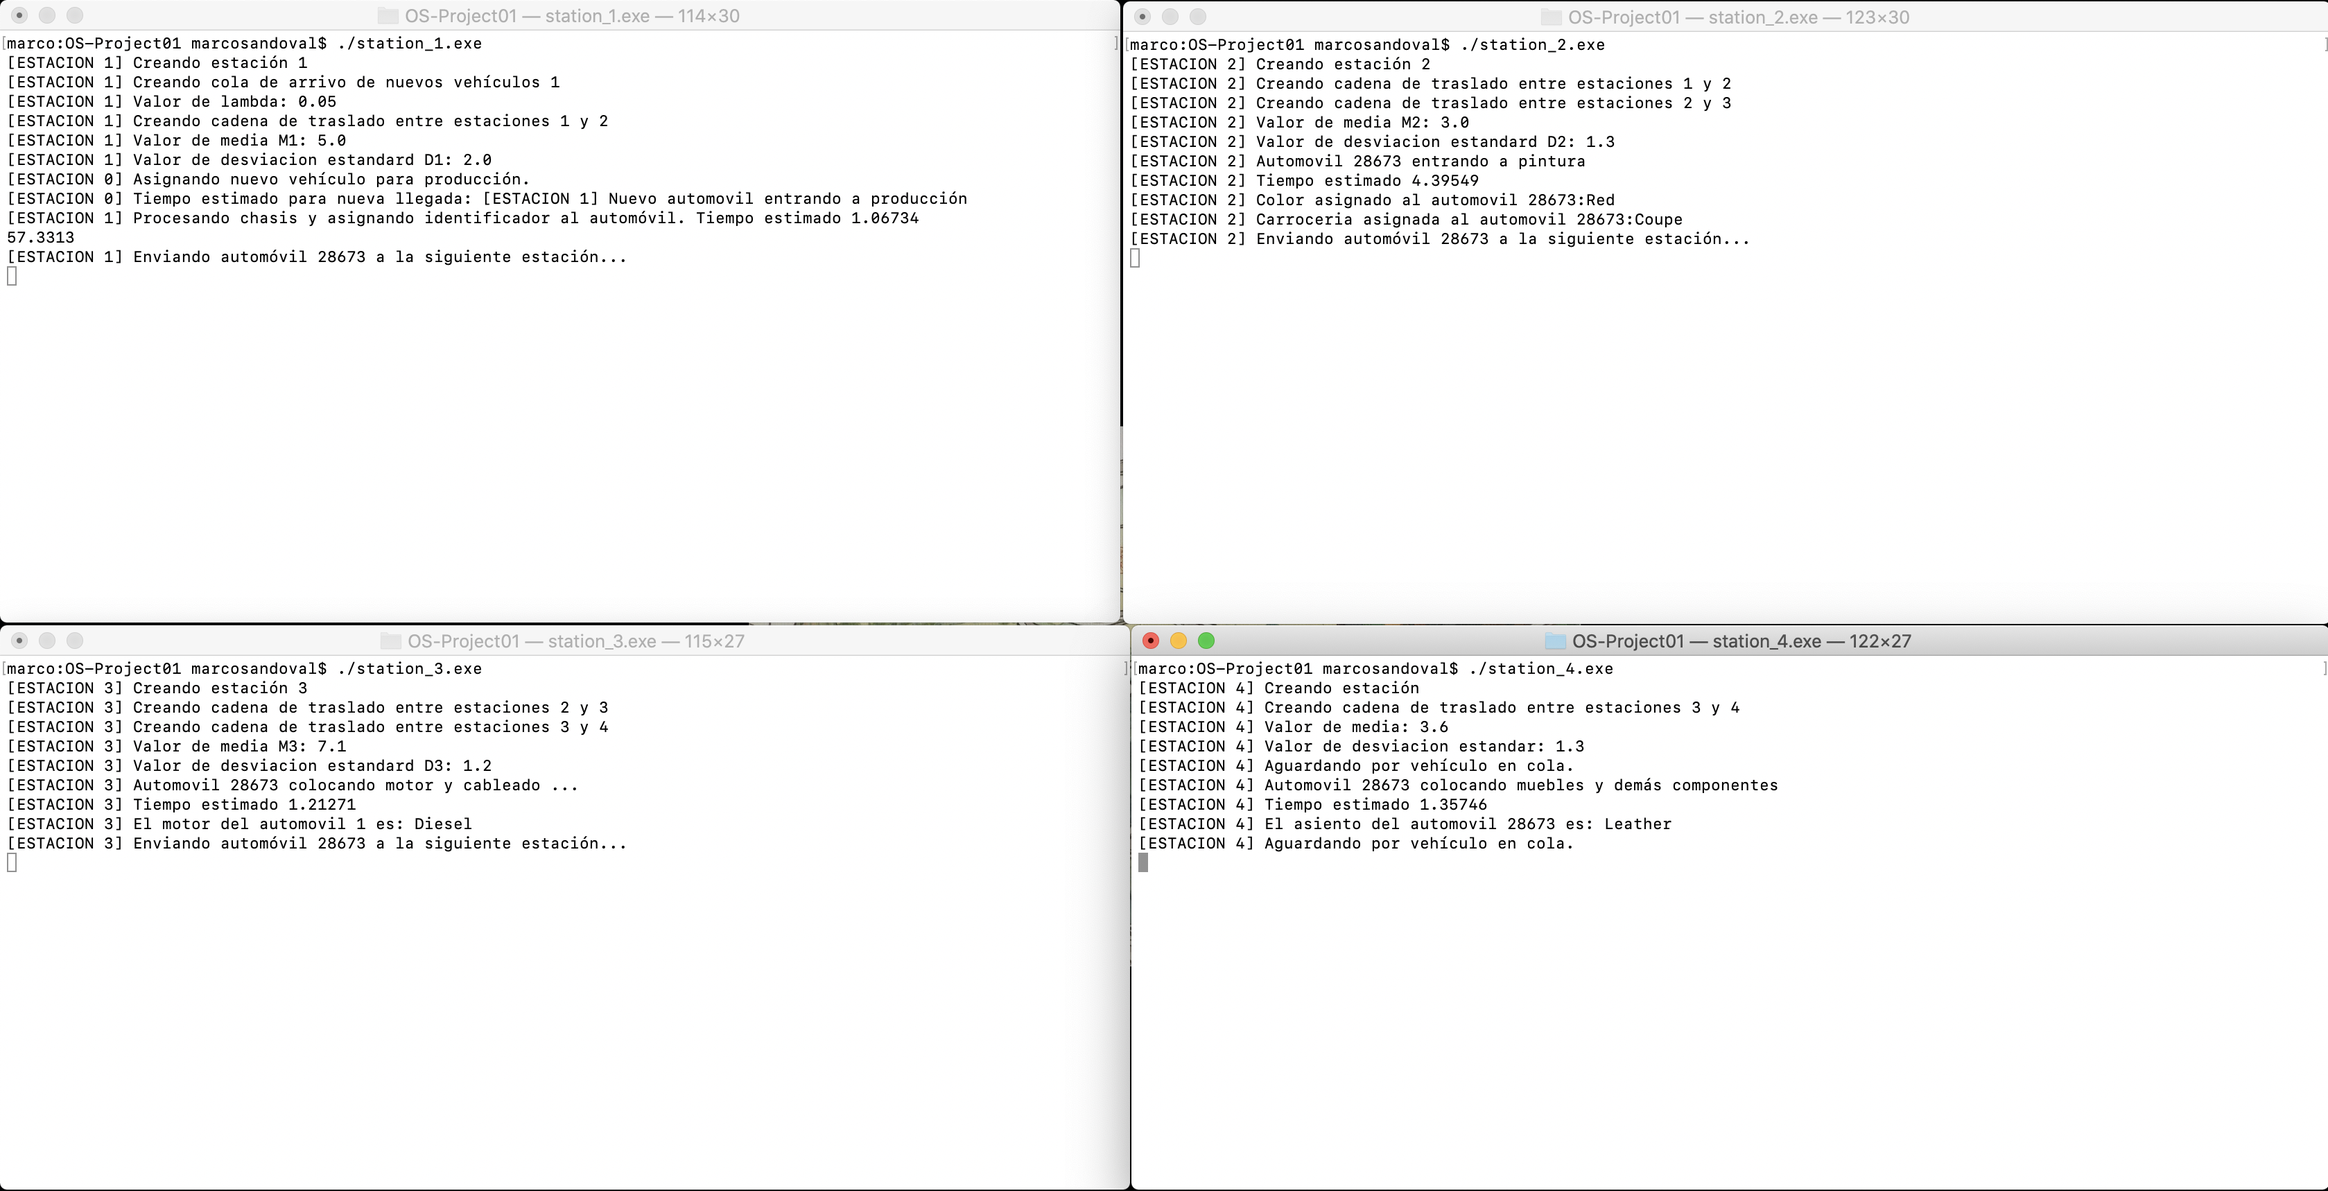
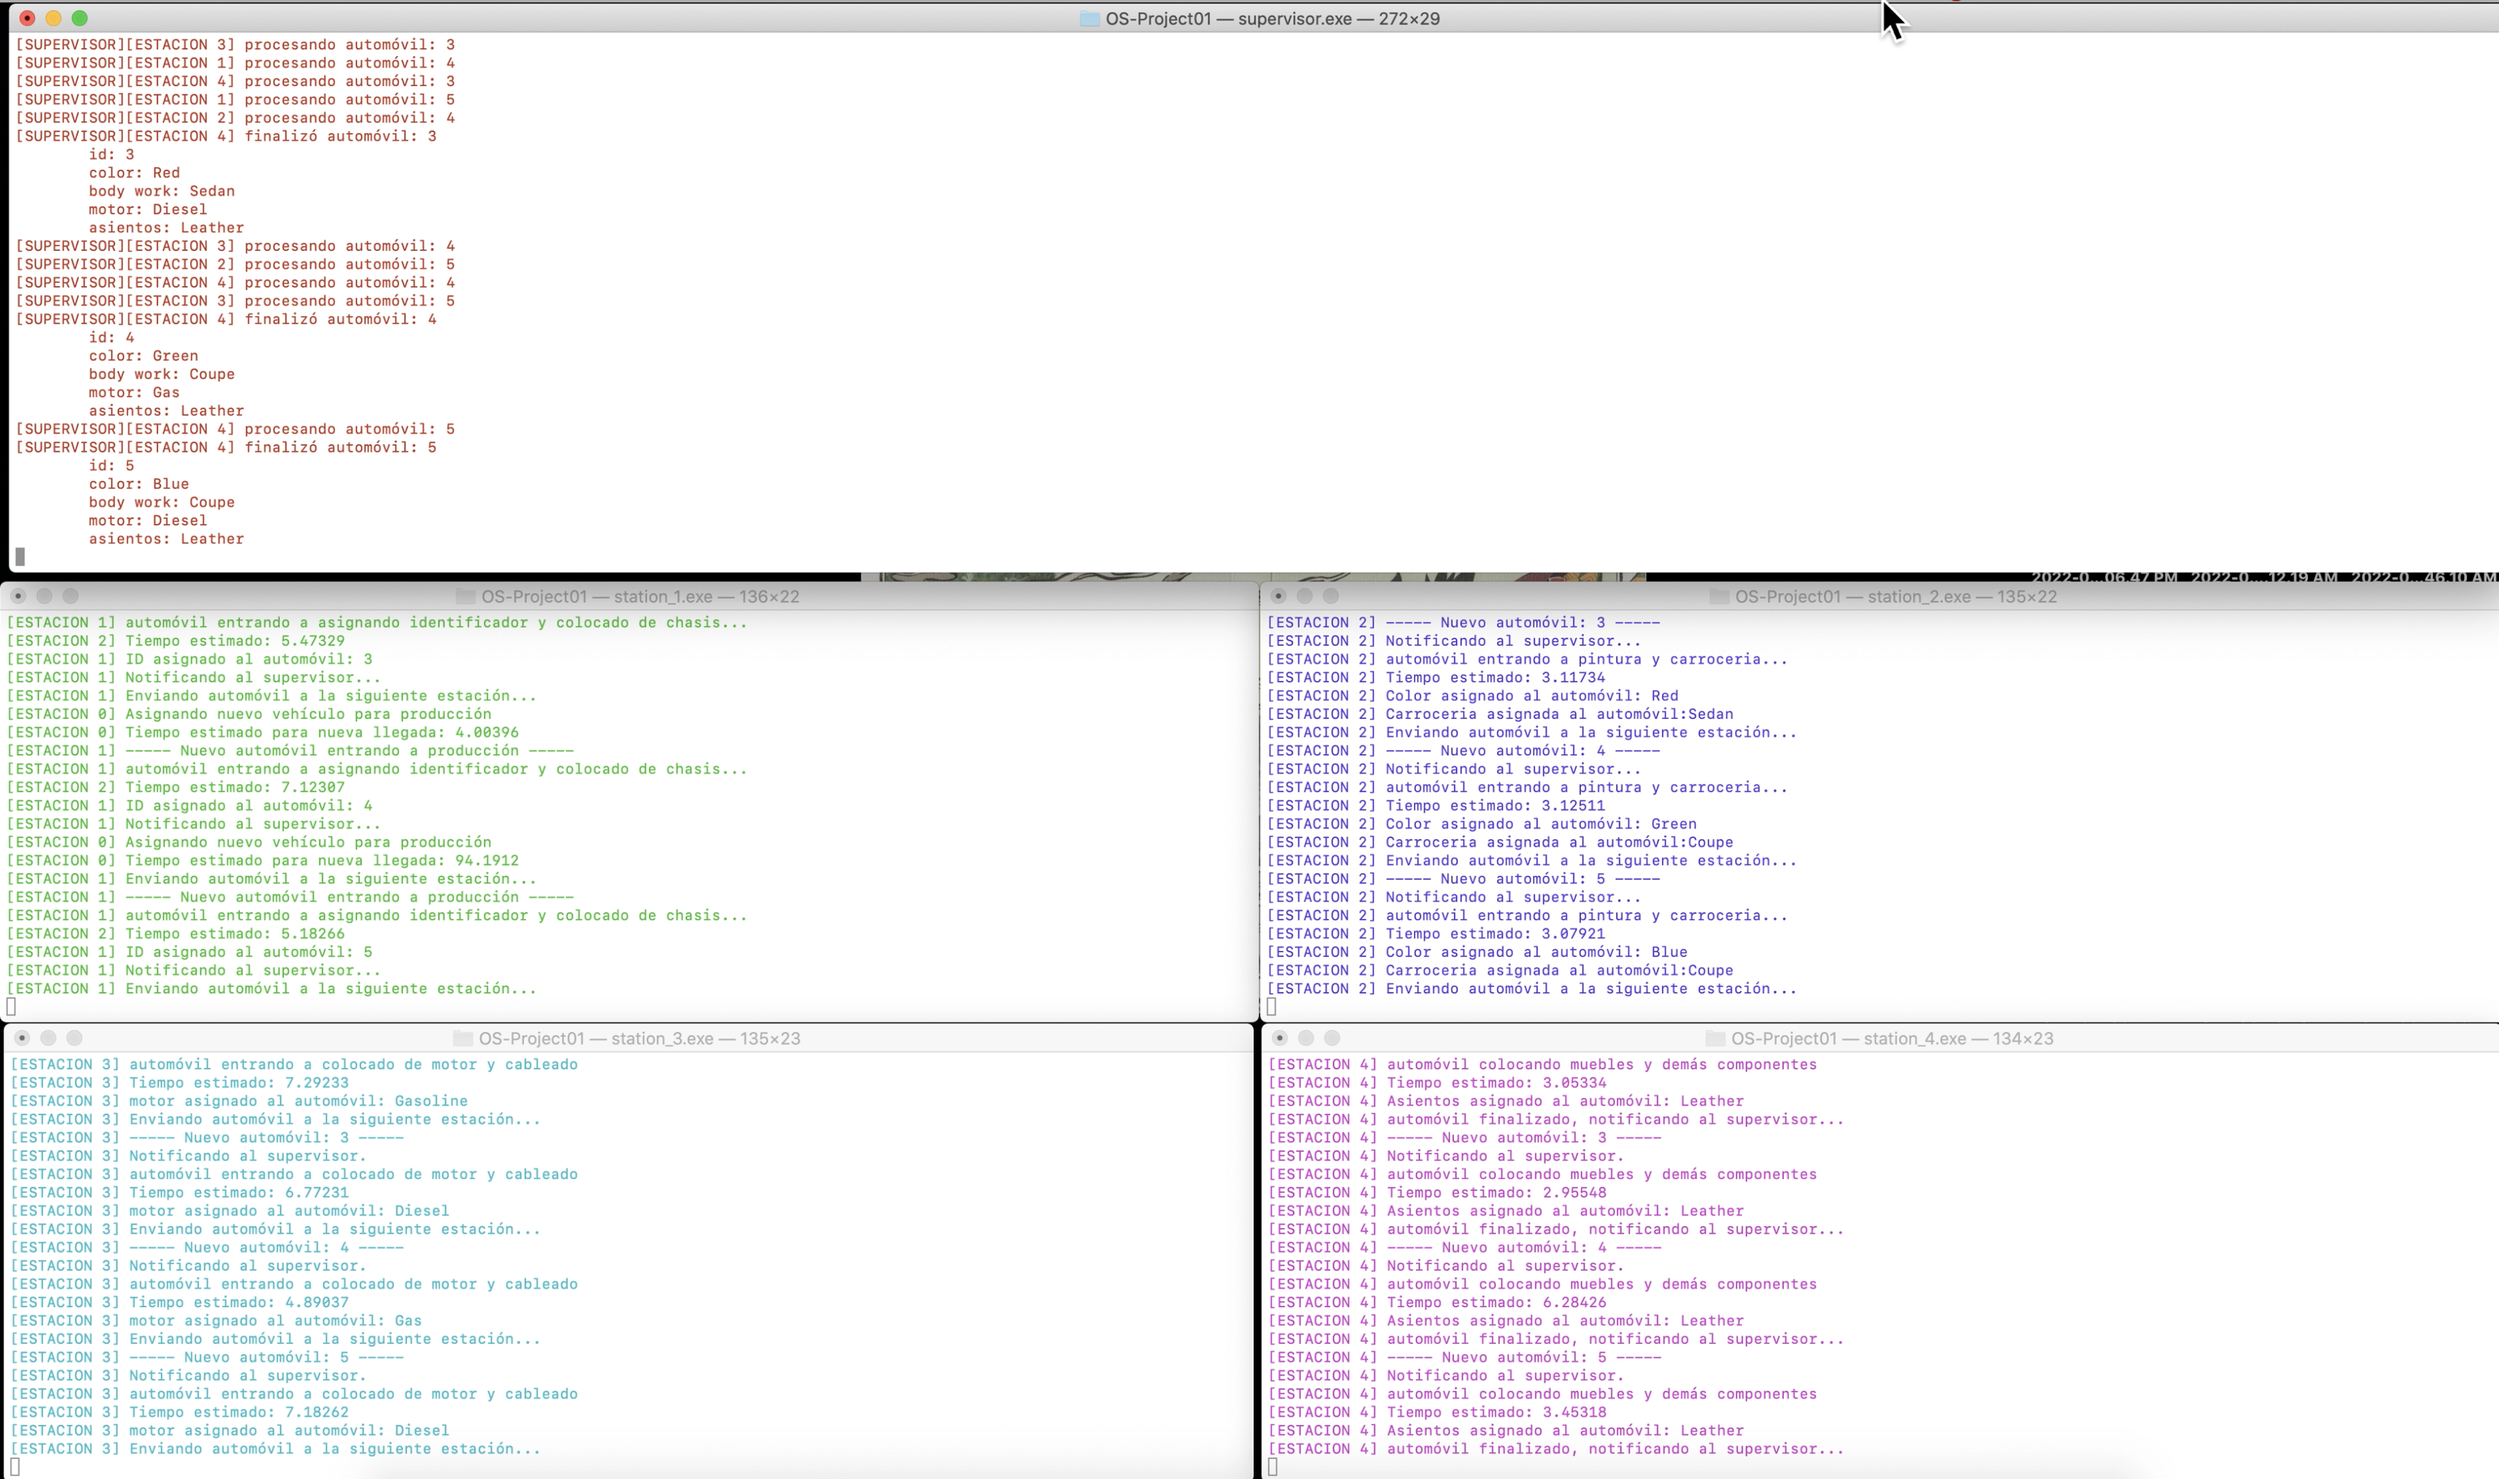
EDIT readme.md

Changed region(s): [[0.0, 0.0, 1.0, 1.0], [0.9911, 0.9872, 1.0, 1.0]]

diff --git a/README.md b/README.md
@@ -35,6 +35,7 @@ al sistema:
     - `station_2.exe`
     - `station_3.exe`
     - `station_4.exe`
+    - `supervisor.exe`
 
 
 ### Instrucciones para ejecutar el código
@@ -44,6 +45,8 @@ al sistema:
     - `station_2.exe`
     - `station_3.exe`
     - `station_4.exe`
+    - `supervisor.exe`
+
 
 
 Al seguir estos pasos, se podra apreciar a los 5 programas independientes colaborando entre sí para simular la 
@@ -66,3 +69,5 @@ Ahí es posible modificar:
 -----
 
 ### Demo
+
+En este [vídeo](https://youtu.be/79oy5OIM6lA) se encuentra un demo mostrando el proyecto en funcionamiento.
